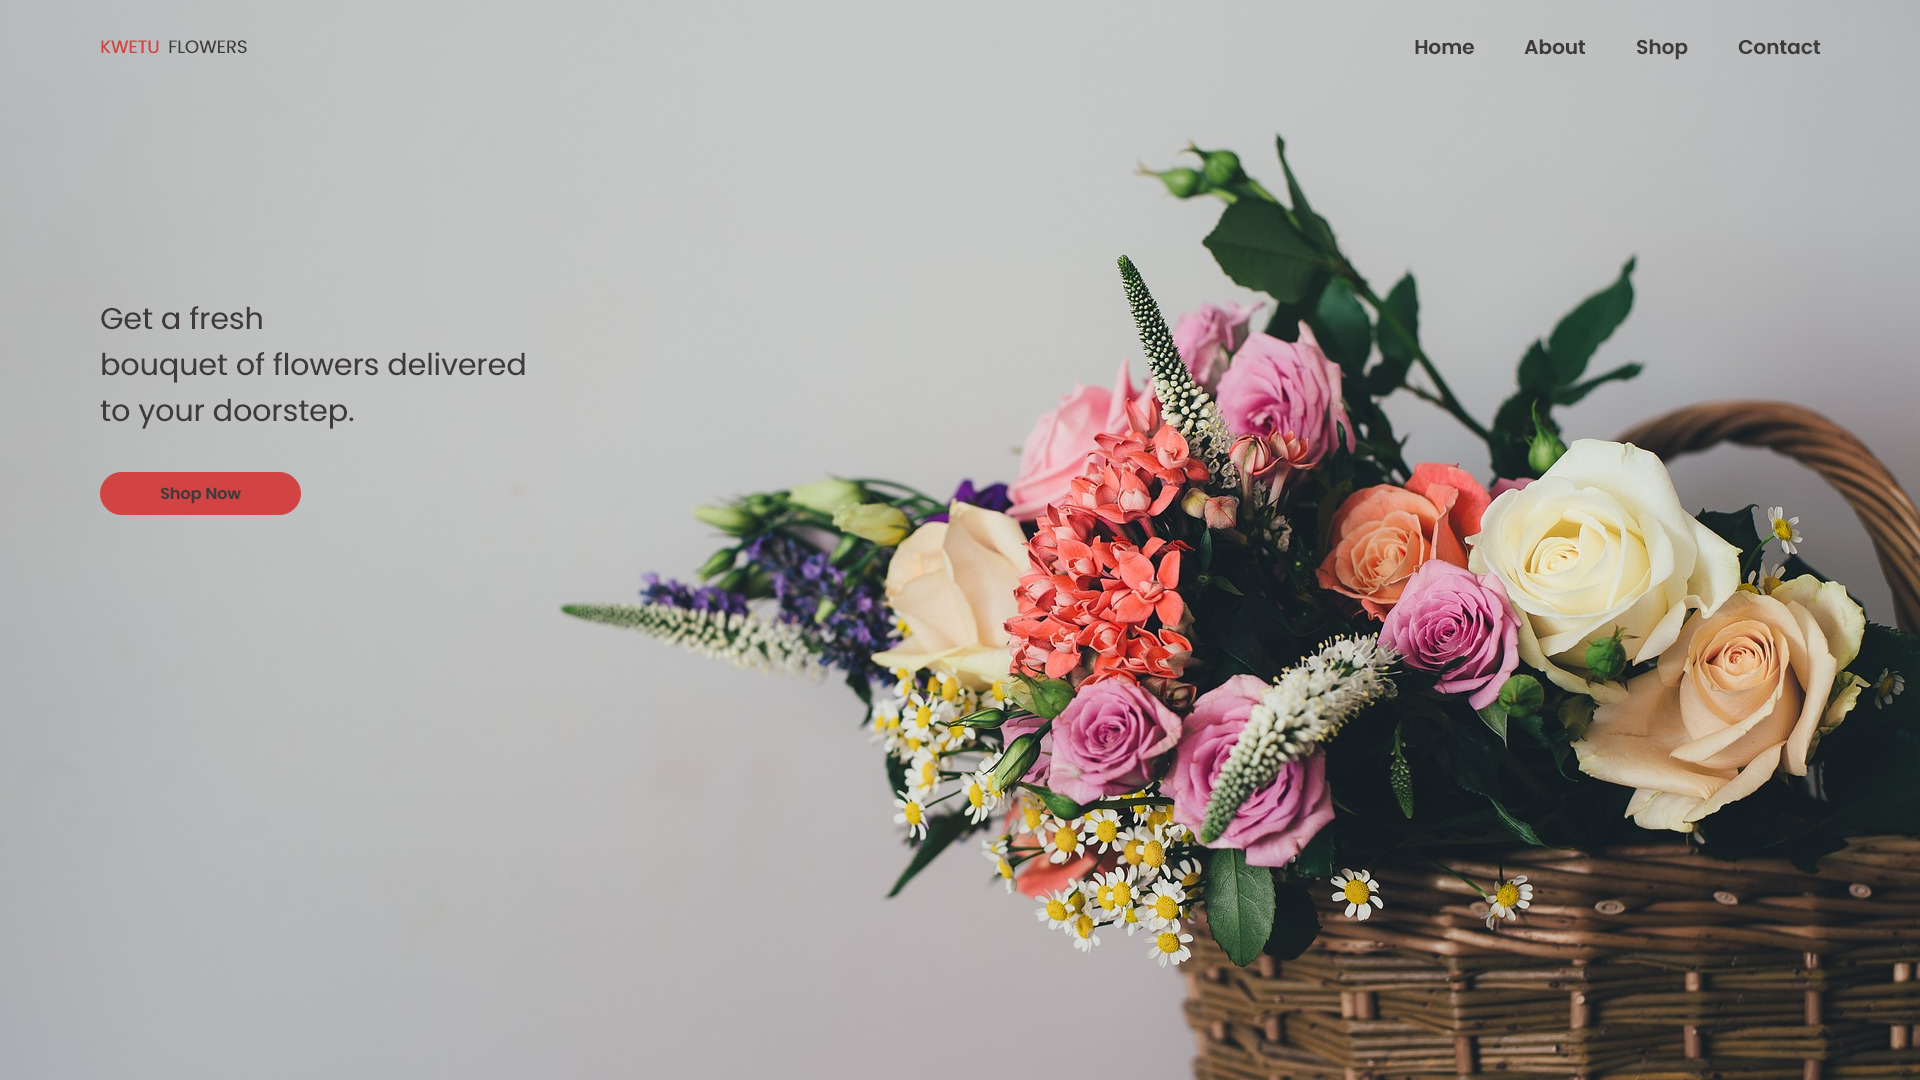
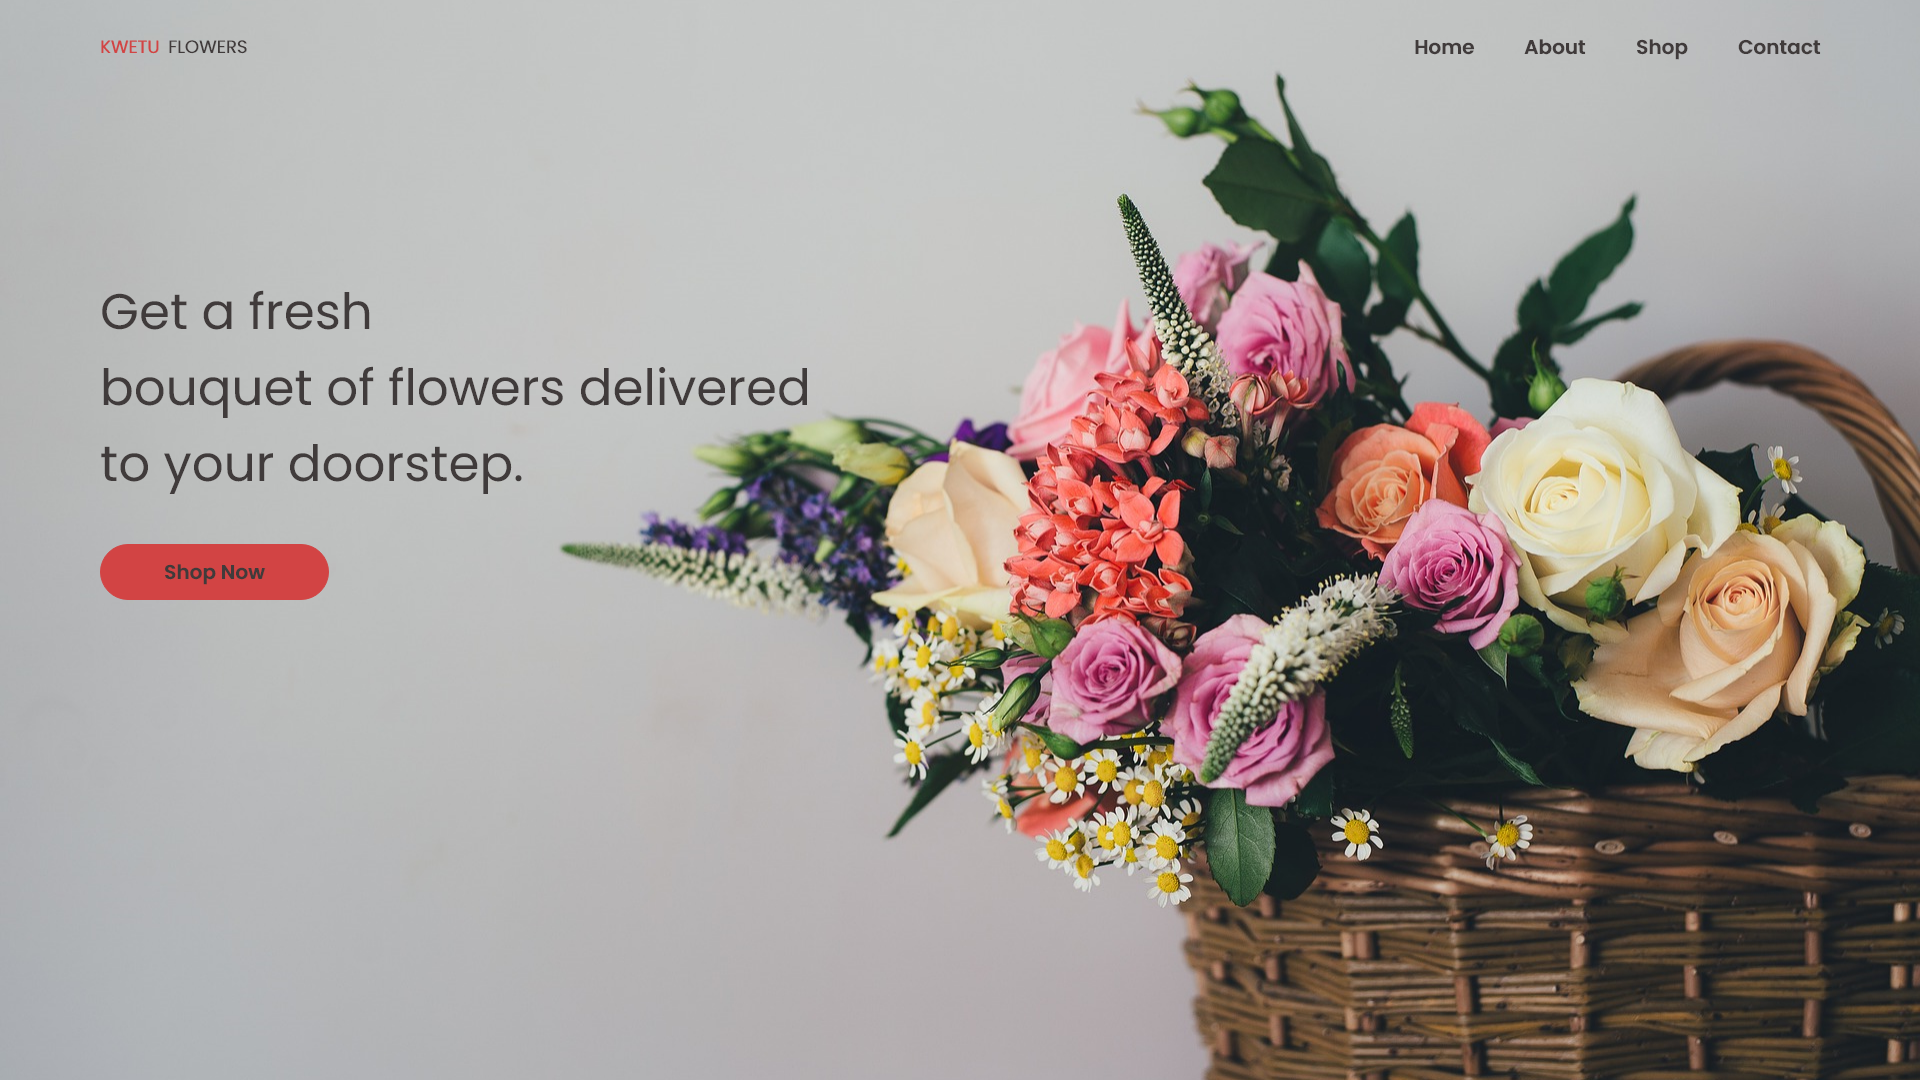
update readme

diff --git a/css/style.scss b/css/style.scss
@@ -88,12 +88,12 @@ header {
     
     &__desc {
         margin: 180px 0px 50px 0px;
-        font-size: 30px;
+        font-size: 50px;
         font-weight: 400;
     }
     &__btn {
         
-        padding: 10px 60px;
+        padding: 14px 64px;
         border: 1px solid var(--primary-color);
         border-radius: 40px;
         background-color: var(--primary-color);

diff --git a/README.md b/README.md
@@ -1,5 +1,5 @@
 # Kwetu Flowers landing page
-![Design preview](./Design/DesktopDesign.png)
+![Design preview](./Design/Design.png)
 
 This is a landing page for a flowers shop (Kwetu Flowers).
 
